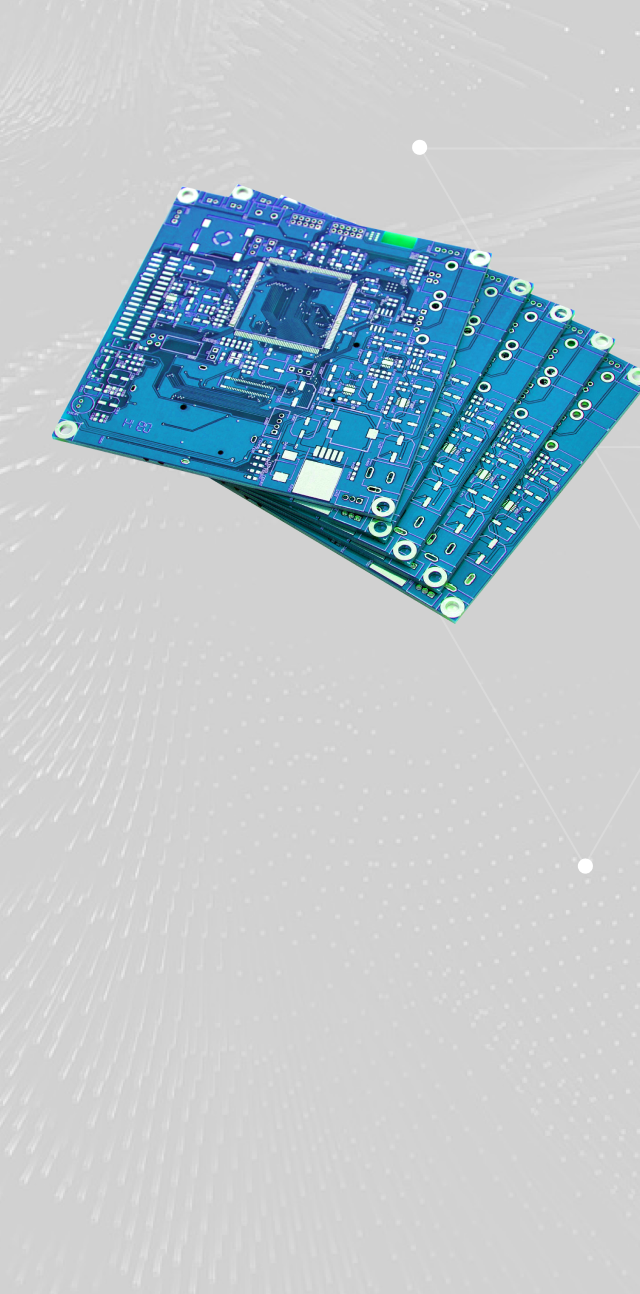
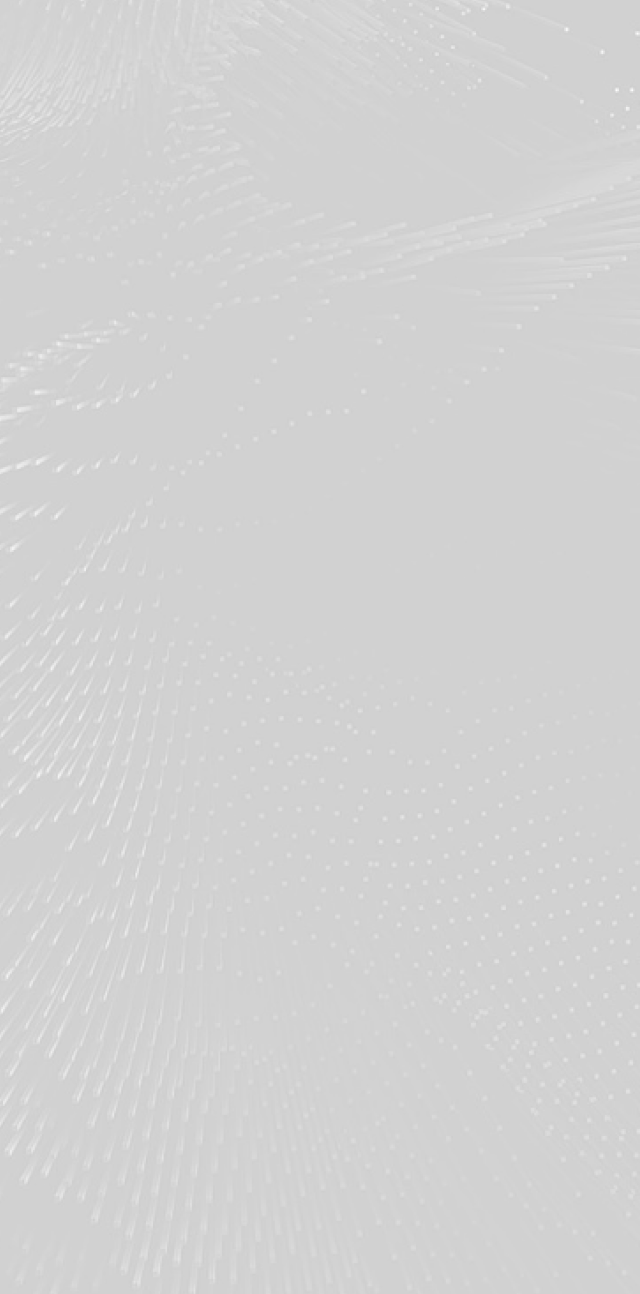
redone bg of intro block (plata as content img)

Changed region(s): [[0.0625, 0.1236, 1.0, 0.4946], [0.625, 0.0927, 0.6875, 0.1236], [0.9062, 0.6491, 0.9375, 0.6801]]

diff --git a/source/index.html b/source/index.html
@@ -38,7 +38,7 @@
       <div class="main-contacts">
         <ul>
           <li>
-            <a href="#" class="main-contacts__link">
+            <a href="mailto:info@sd.ru?" class="main-contacts__link">
               <span class="main-contacts__icon">
                 <svg width="25.33" height="18.67" xmlns="http://www.w3.org/2000/svg">
                   <use xlink:href="#envelope"></use>
@@ -48,7 +48,7 @@
             </a>
           </li>
           <li>
-            <a href="#" class="main-contacts__link">
+            <a href="tel:+7(495)0005252" class="main-contacts__link">
               <span class="main-contacts__icon">
                 <svg width="24" height="24" xmlns="http://www.w3.org/2000/svg">
                   <use xlink:href="#phone-call"></use>
@@ -74,6 +74,24 @@
           <span class="button intro__btn button--accent intro__btn--short-text">Бесплатная консультация</span>
         </a>
         <a href="#advantages" class="intro__scroll">Скролл вниз</a>
+      </div>
+      <div class="intro__pic">
+        <picture>
+          <source type="image/webp" media="(min-width: 1024px)"
+            srcset="img/plata-desktop@1x.webp 1x, img/plata-desktop@2x.webp 2x">
+          <source type="image/webp" media="(min-width: 768px)"
+            srcset="img/plata-tablet@1x.webp 1x, img/plata-tablet@2x.webp 2x">
+          <source type="image/webp"
+            srcset="img/plata-mobile@1x.webp 1x, img/plata-mobile@2x.webp 2x">
+          <!-- 1х: 370px; 2x: 740px -->
+          <source media="(min-width: 1024px)"
+            srcset="img/plata-desktop@1x.png 1x, img/plata-desktop@2x.png 2x">
+          <!-- 1х: 770px; 2x: 1540 -->
+          <source media="(min-width: 768px)"
+            srcset="img/plata-tablet@1x.png 1x, img/plata-tablet@2x.png 2x">
+          <!-- 1х: 320px; 2x: 640px -->
+        <img src="img/plata-mobile@1x.png" srcset="img/plata-mobile@2x.png 2x" alt="электронная печатная плата" width="1920" height="881">
+        </picture>
       </div>
     </section>
     <div class="block">
@@ -153,7 +171,6 @@
             <a href="#">
               <h4>Производство печатных плат</h4>
               <div class="services__link-btn">
-                <p>&gt;</p>
               </div>
               <picture>
                 <source type="image/webp" media="(min-width: 1024px)"
@@ -178,7 +195,6 @@
             <a href="#">
               <h4>Монтаж печатных плат</h4>
               <div class="services__link-btn">
-                <p>&gt;</p>
               </div>
               <picture>
                 <source type="image/webp" media="(min-width: 1024px)"
@@ -204,7 +220,6 @@
             <a href="#">
               <h4>Комплектующие для светотехники</h4>
               <div class="services__link-btn">
-                <p>&gt;</p>
               </div>
               <picture>
                 <source type="image/webp" media="(min-width: 1024px)"

diff --git a/source/sass/blocks/intro.scss b/source/sass/blocks/intro.scss
@@ -7,7 +7,7 @@
   background-size: cover;
 
   @media (min-width: $desktop-width) {
-    background-image: url("../img/bg-intro-desktop.png");
+    background-image: url("../img/bg-intro-desktop@1x.png");
 
     @media (min-resolution: $retina-dpi), (min-resolution: $retina-dppx) {
       background-image: url("../img/bg-intro-desktop@2x.png");
@@ -16,7 +16,7 @@
 
   @media (max-width: $tablet-width-only) {
     height: 686px;
-    background-image: url("../img/bg-intro-tablet.png");
+    background-image: url("../img/bg-intro-tablet@1x.png");
 
     @media (min-resolution: $retina-dpi), (min-resolution: $retina-dppx) {
       background-image: url("../img/bg-intro-tablet@2x.png");
@@ -25,7 +25,7 @@
 
   @media (max-width: $mobile-width-only) {
     height: 647px;
-    background-image: url("../img/bg-intro-mobile.png");
+    background-image: url("../img/bg-intro-mobile@1x.png");
 
     @media (min-resolution: $retina-dpi), (min-resolution: $retina-dppx) {
       background-image: url("../img/bg-intro-mobile@2x.png");
@@ -34,6 +34,7 @@
 }
 
 .intro__nav {
+  z-index: 1;
   position: relative;
   display: flex;
   flex-direction: column;
@@ -49,8 +50,8 @@
 
   @media (max-width: $mobile-width-only) {
     max-width: 470px;
-
     margin-top: 287px;
+    padding-left: 5%;
   }
 }
 
@@ -148,7 +149,7 @@ a.intro__scroll {
 
   @media (max-width: $mobile-width-only) {
     padding: 17px 5px;
-    width: 100%;
+    width: 287px;
     margin: 0;
   }
 }
@@ -163,4 +164,19 @@ a.intro__scroll {
   @media (min-width: $tablet-width) {
     display: none;
   }
+}
+
+.intro__pic {
+  position: absolute;
+
+  @media (min-width: $tablet-width) {
+    top: 0;
+    left: 0;
+    min-width: 100%;
+    min-height: 100%;
+  }
+}
+
+.intro__pic img {
+  object-fit: cover;
 }

diff --git a/source/sass/blocks/services.scss b/source/sass/blocks/services.scss
@@ -129,6 +129,13 @@
   background-color: $mainColor;
   font-size: 16px;
   color: #ffffff;
+
+  &::after {
+    content: ">";
+    position: absolute;
+    top: 35%;
+    left: 45%;
+  }
 }
 
 .services p {

diff --git a/source/sass/grid.scss b/source/sass/grid.scss
@@ -33,6 +33,6 @@
   }
 
   @media (max-width: $mobile-width-only) {
-    padding: 0 5%;
+    padding: 0;
   }
 }
